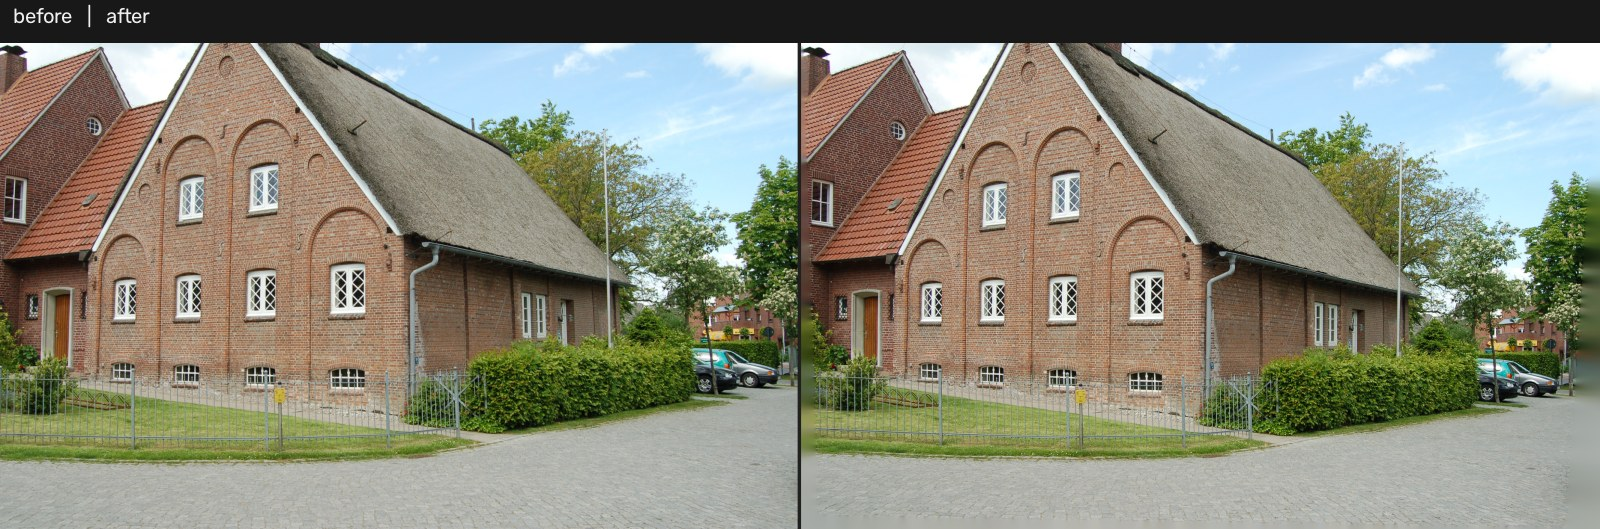
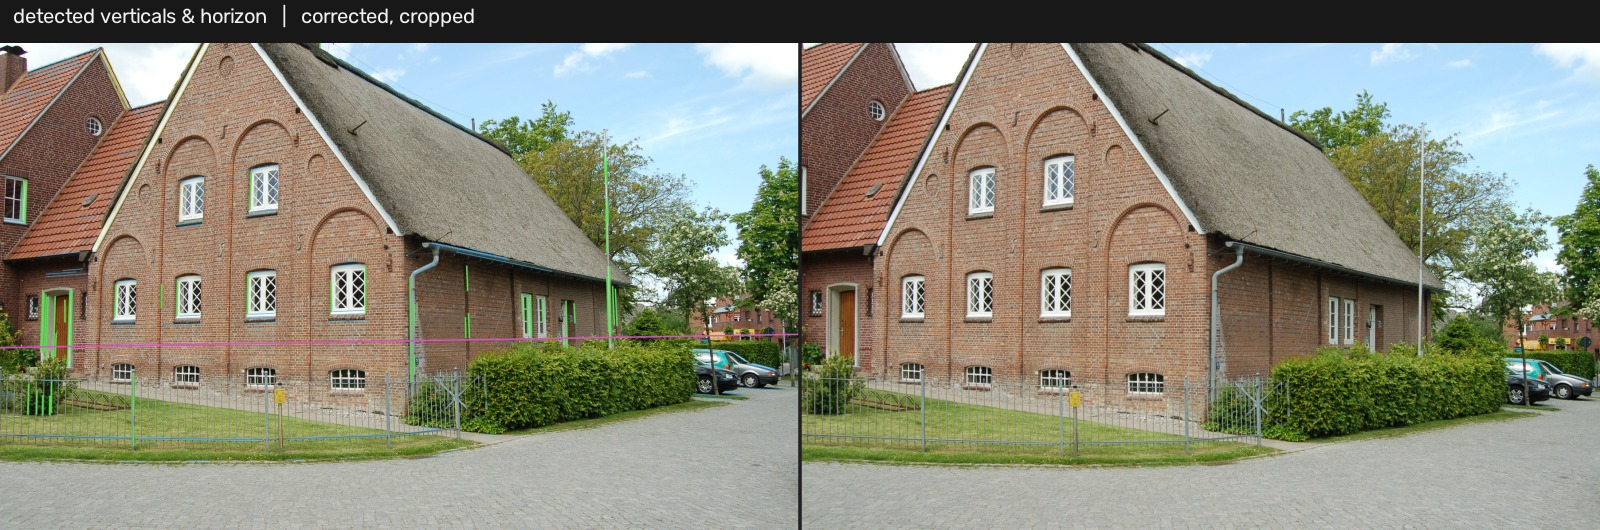
Show the construction lines and the crop in the hero image
The hero was a plain before/after -- correct, but it did not show any
of the evidence the tool actually works from, and the correction it
demonstrated kept the padded band rather than showing what a crop looks
like.

Rebuilt from the pipeline's own functions (analyse, then warp.build/
plan/apply with crop="aspect", fill="none") rather than a CLI run, so
the left half is PV.overlay's construction lines -- green verticals the
fit used, blue horizontals, magenta horizon -- and the right half is the
actual corrected-and-cropped result, no padding, no fill. Same building,
same run, so the two halves are honestly related to each other.

Claude-Session: https://claude.ai/code/session_015ZUVodBgeAv6wTupnJSTyA

diff --git a/README.md b/README.md
@@ -1,6 +1,6 @@
 # Batch Perspective Correction
 
-![before and after: a facade with converging verticals, straightened](docs/hero-before-after.jpg)
+![left: detected verticals, horizontals and the implied horizon. right: corrected and cropped to the original aspect ratio](docs/hero-before-after.jpg)
 
 Straightens converging verticals in architectural photographs, a folder at a
 time. Built for the case where most of a batch needs a small correction, some
